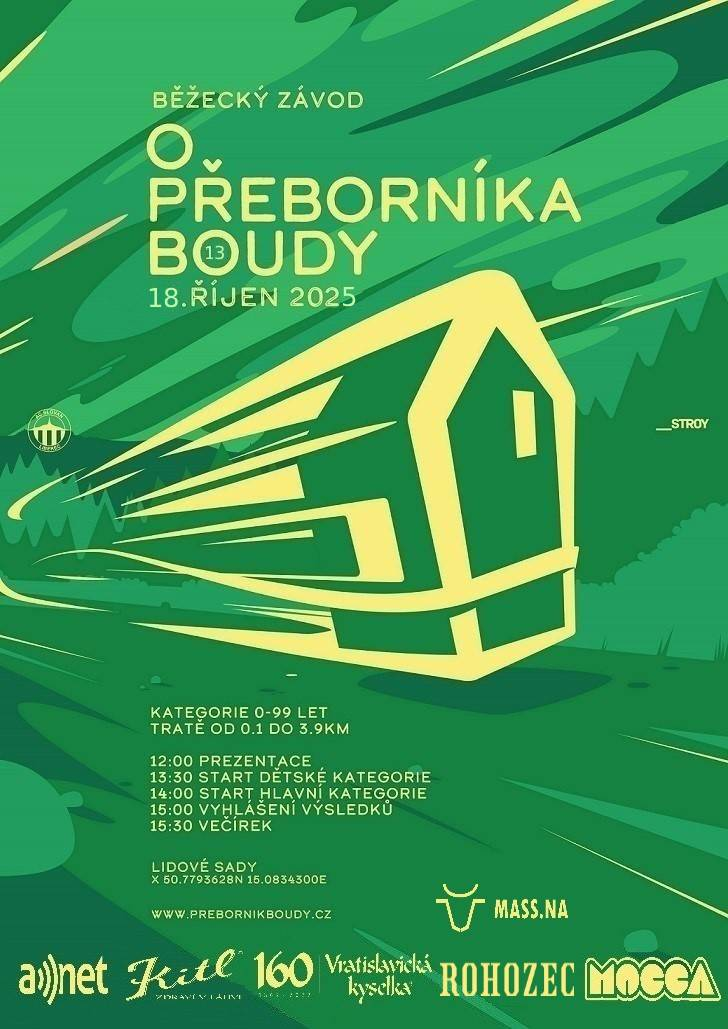
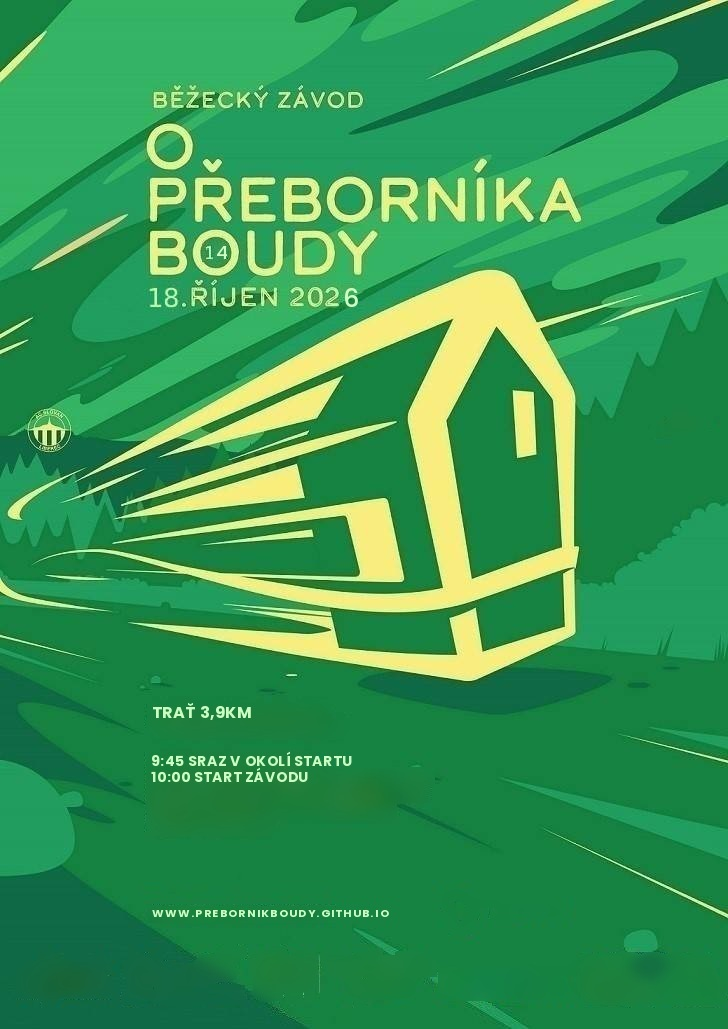
Add files via upload

diff --git a/propozice.html b/propozice.html
@@ -53,18 +53,10 @@
       <div>
         <section class="karta propozice-sekce">
           <h2 class="s-faborkem">Kdy a kde</h2>
-          <p><b>Neděle 18. 10. 2026</b> na Boudě v Lidových sadech —
-             <a href="https://mapy.cz/s/pacohuhalo" target="_blank" rel="noopener">Lidové sady 833, Liberec</a>
-             (50.7793628N, 15.0834300E).</p>
-        </section>
-
-        <section class="karta propozice-sekce">
-          <h2 class="s-faborkem">Parkování</h2>
-          <p>Nejlepším místem na parkování je ofiko parkoviště na konečné stanici tramvaje,
-             ale jsou zde další místa, kde se dá zaparkovat — je ovšem potřeba dodržovat dopravní
-             předpisy, viz <a href="https://mapy.cz/s/gorekotora" target="_blank" rel="noopener">situační mapka</a>.
-             U Boudy je parkoviště pouze pro pořadatele. Zaparkovat se dá i ve městě
-             a dopravit se do Lidových sadů tramvají.</p>
+          <p><b>Neděle 18. 10. 2026, start v 10:00.</b> Liberec, Lidové sady.</p>
+          <p>Sraz je přímo na startu závodu, který je
+             <a href="https://mapy.com/s/fomavudocu" target="_blank" rel="noopener">zde na mapě</a>.
+             Start i cíl jsou na stejném místě.</p>
         </section>
 
         <section class="karta propozice-sekce">
@@ -80,7 +72,7 @@
         <section class="karta propozice-sekce">
           <h2 class="s-faborkem">Program</h2>
           <ul class="program">
-      <li><span class="cas">9:45</span><span>Sraz v okolí startu</span></li>
+      <li><span class="cas">9:45</span><span>Sraz na startu závodu</span></li>
       <li><span class="cas">10:00</span><span>Hromadný start</span></li>
           </ul>
         </section>
@@ -113,7 +105,7 @@
              Trať je dlouhá zhruba 3,9&nbsp;km a převýšení má 74&nbsp;m. Je vedena lesními cestami,
              zhruba jedna čtvrtina po asfaltové cestě. Trať je velmi náročná co se týče krkolomných
              stoupání, ale také nebezpečných seběhů. Pozor na četné kořeny, kameny i výmoly od vody —
-             doporučuji dobré krosové boty. Start a cíl jsou ve stejném místě.</p>
+             doporučuji dobré krosové boty.</p>
           <p>Protože závod nemá pořadatelské zázemí, <b>značení trati není zaručeno</b> — projděte si
              trasu předem na mapě nebo ve videu v sekci O závodu.
              Trasa závodu: <a href="https://mapy.com/s/butegujasa" target="_blank" rel="noopener">Mapy.cz</a>.</p>
